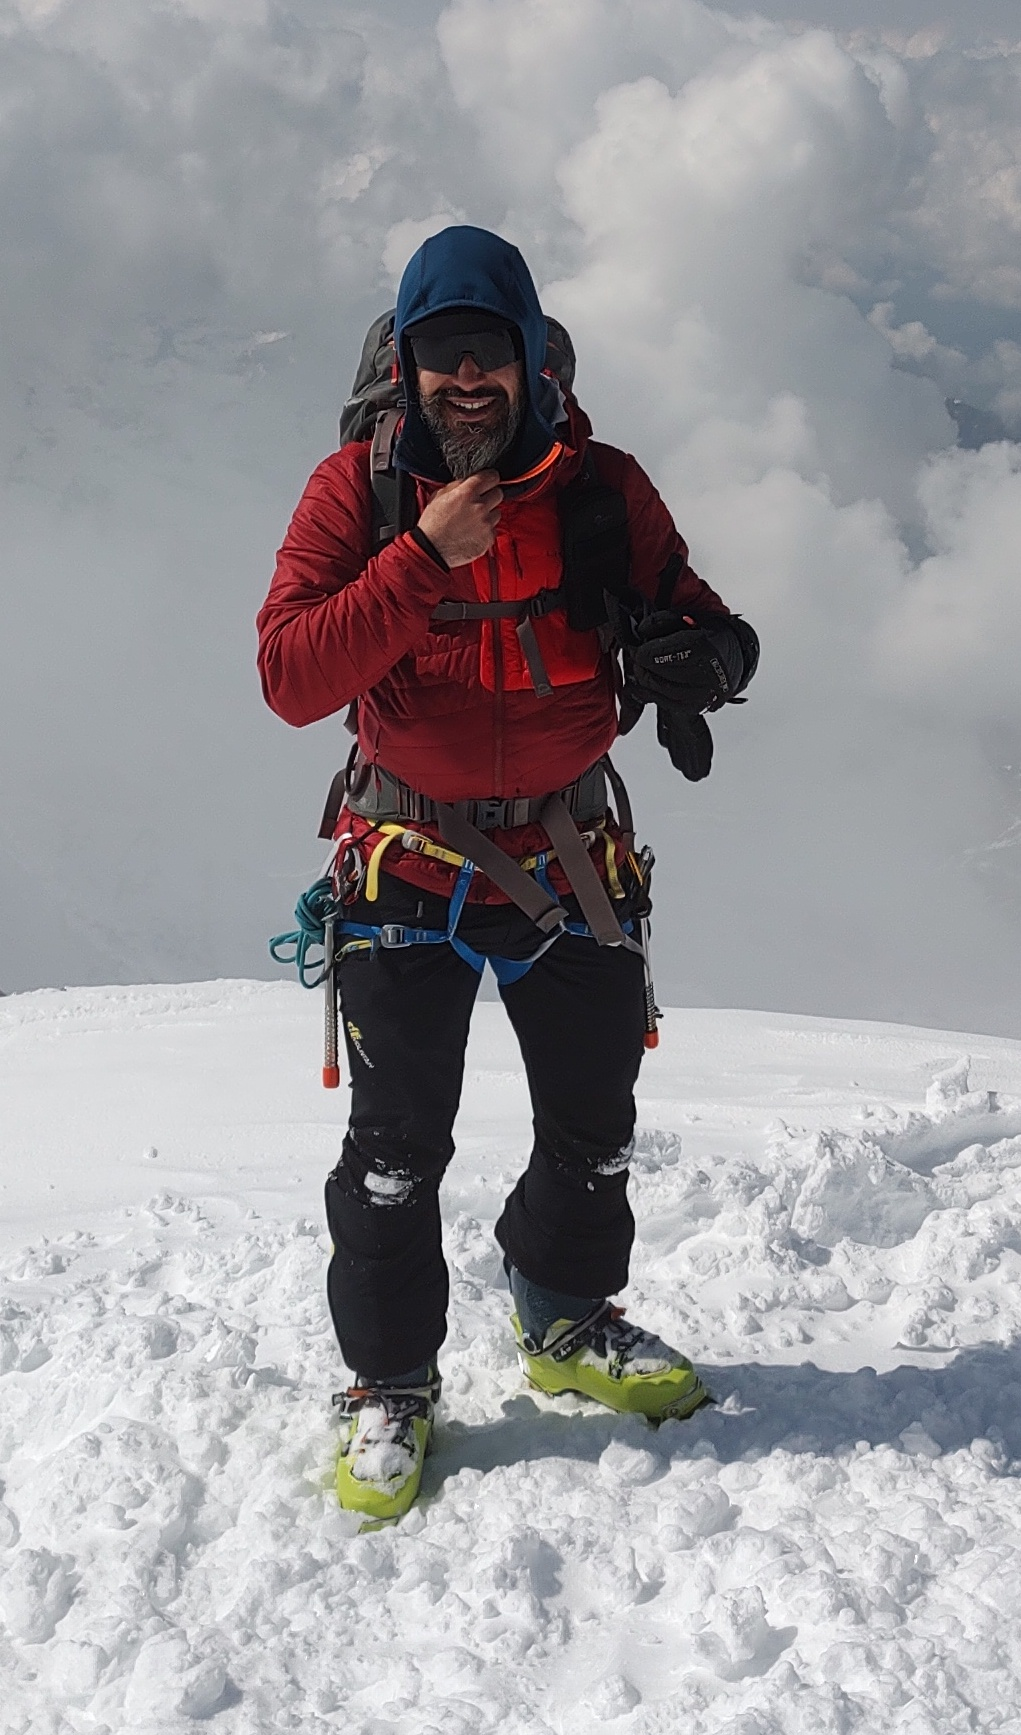
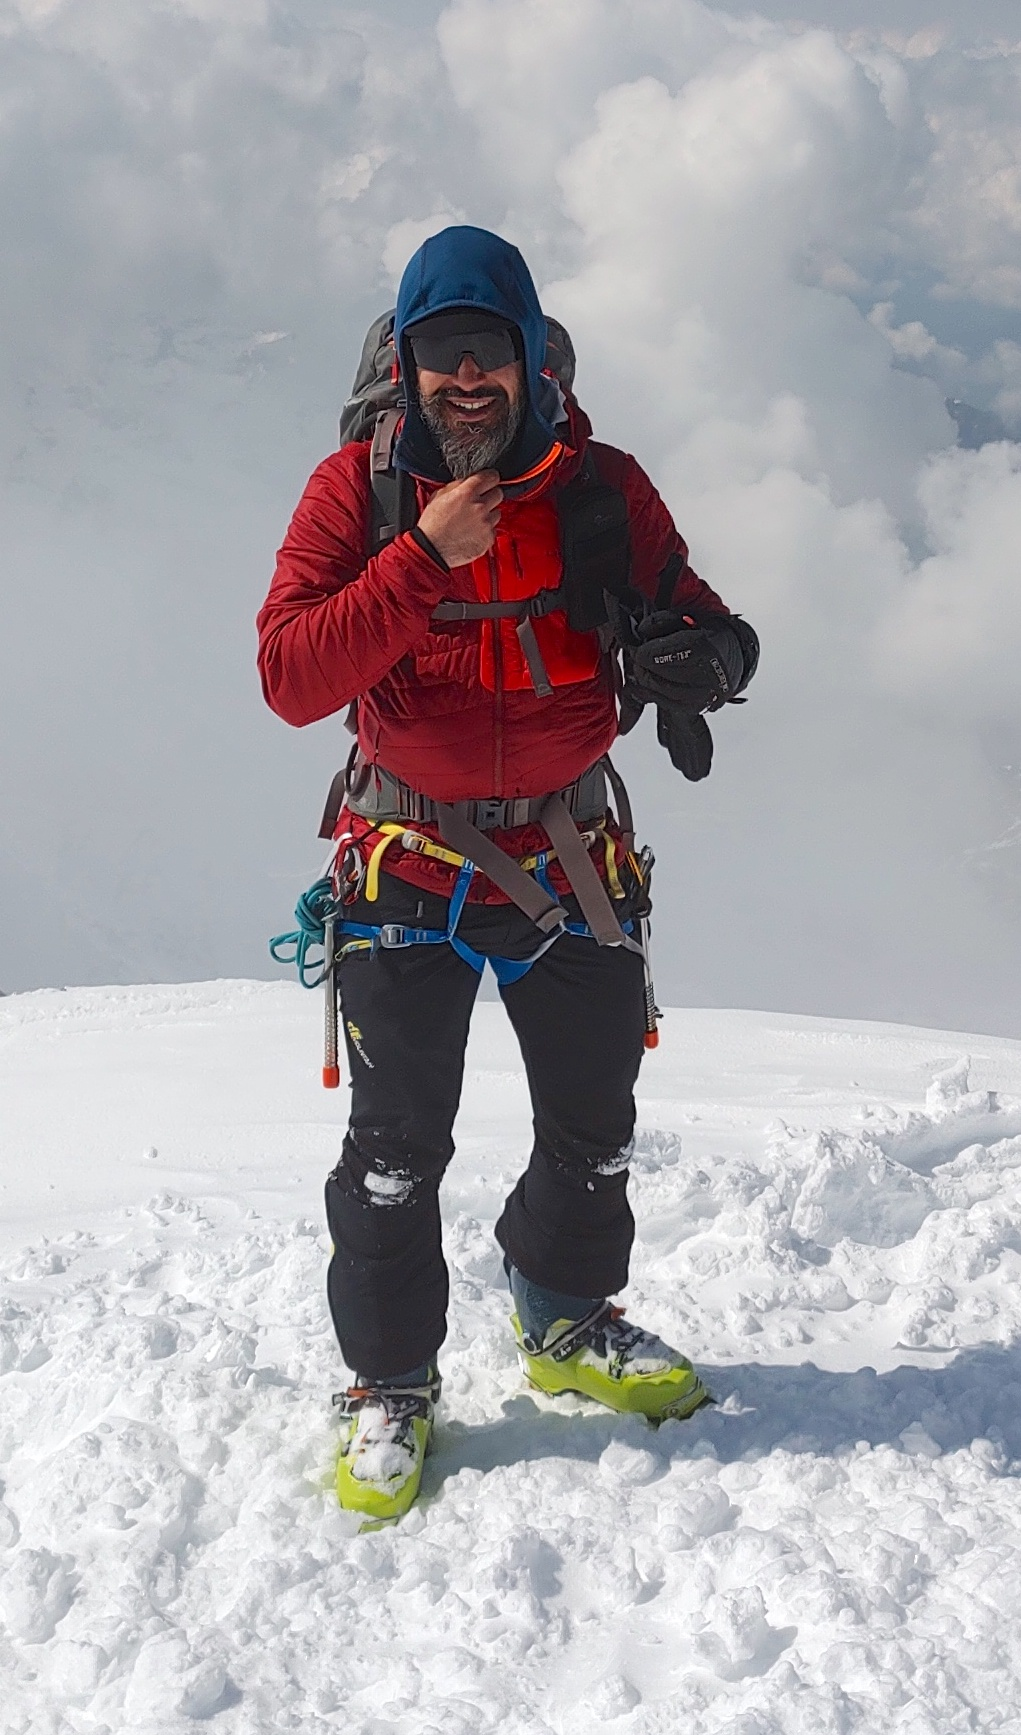
Change profile picture

diff --git a/_pages/about.md b/_pages/about.md
@@ -6,7 +6,7 @@ subtitle: <a href=#>Università degli Studi di Milano - Bicocca, School of Law</
 
 profile:
   align: right
-  image: me2.jpg
+  image: me.jpg
   image_circular: false # crops the image to make it circular
   address: >
     <p>Room U6-2034</p>
